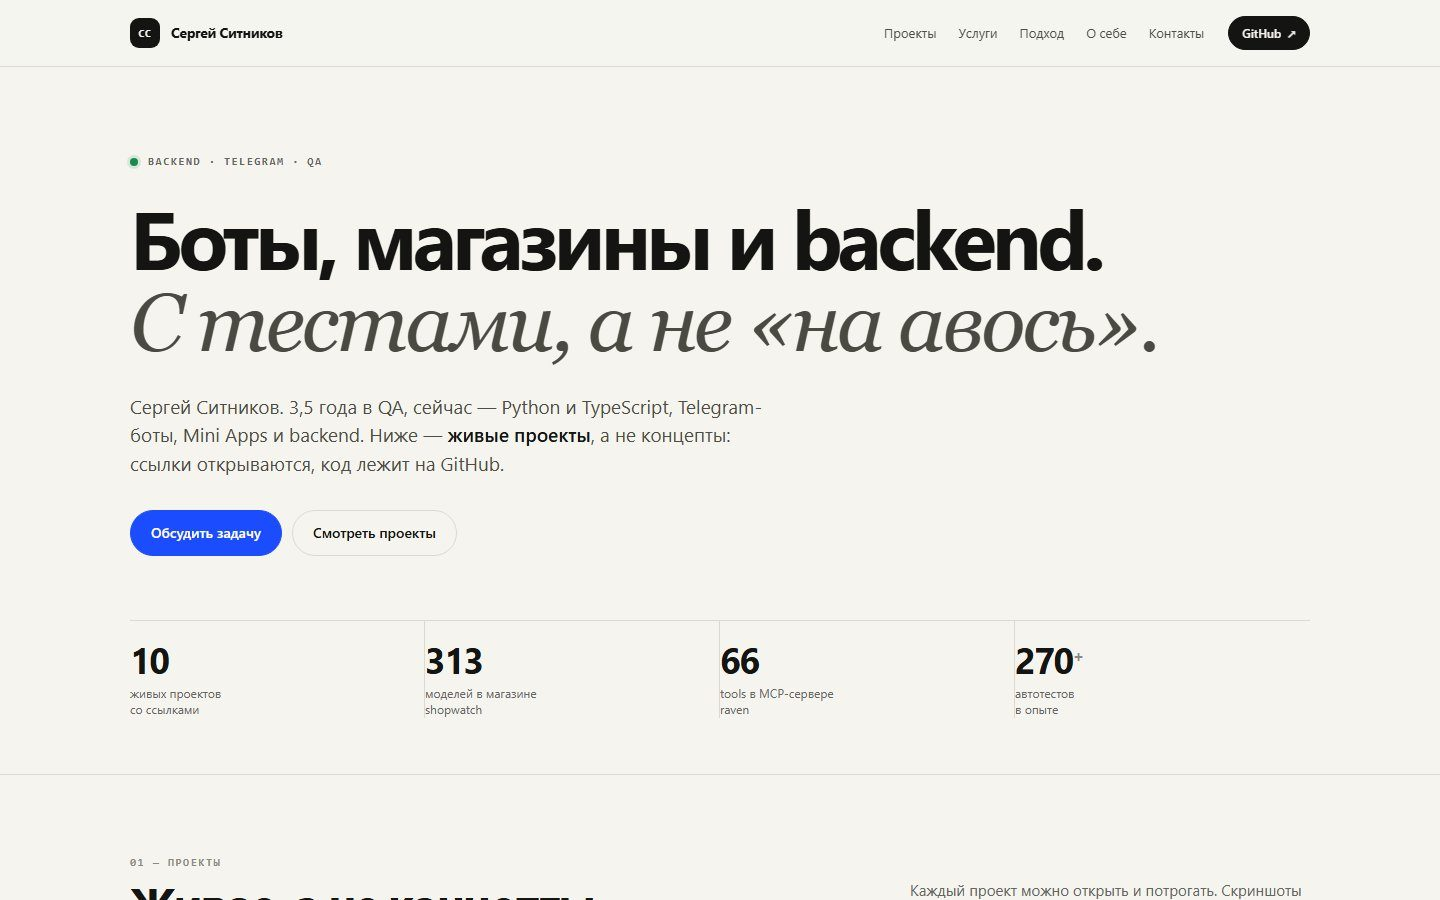
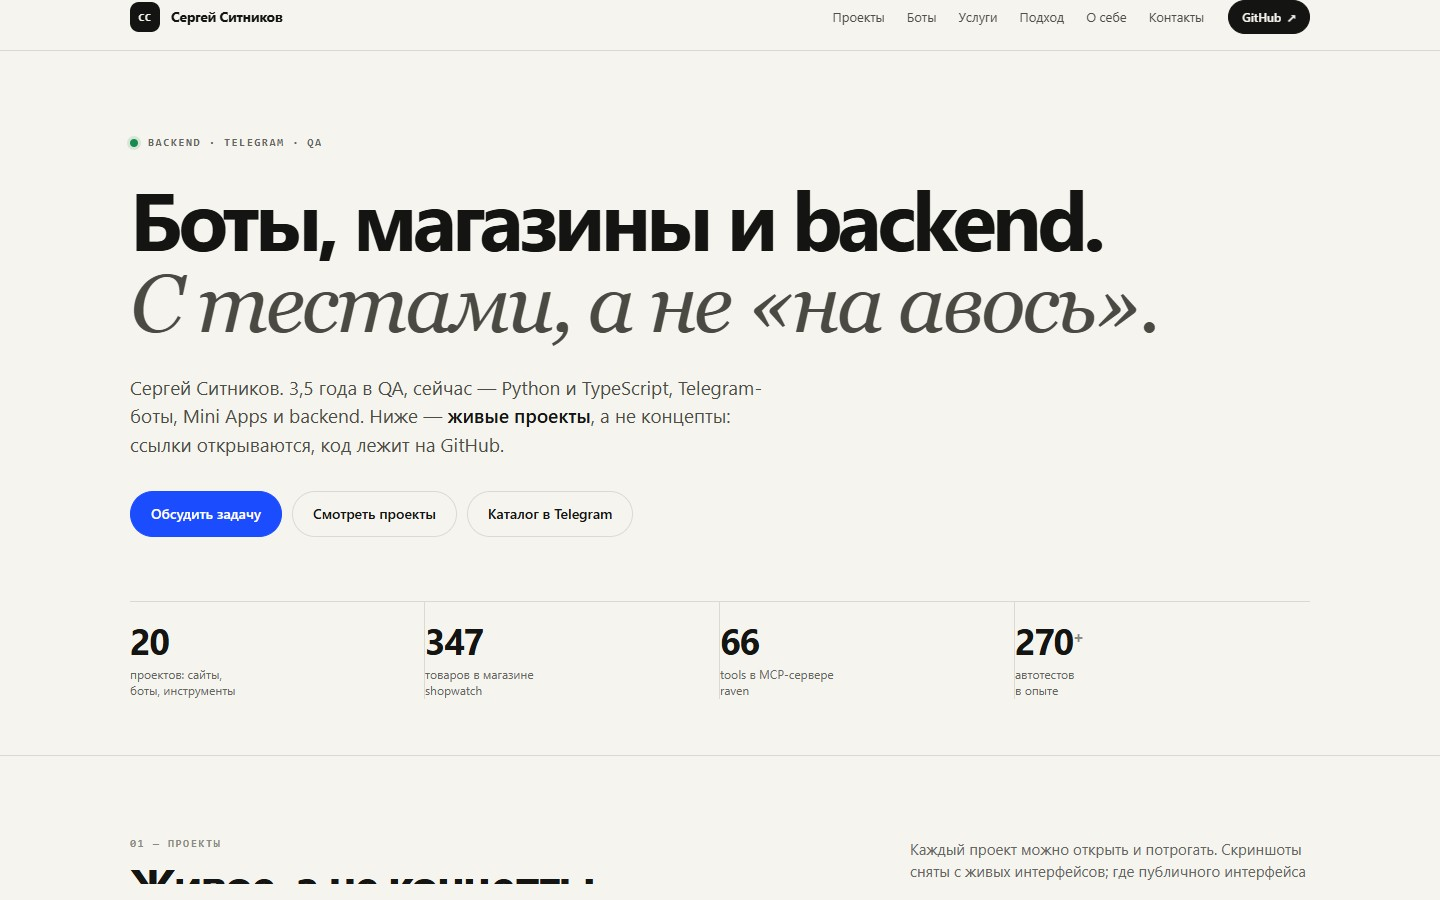
hub: 347 products, 103 skills, fresh storefront shot

diff --git a/index.html b/index.html
@@ -291,7 +291,7 @@ h2{font-size:clamp(30px,4.3vw,46px);line-height:1.04;letter-spacing:-.045em;font
       </div>
       <div class="stats">
         <div class="stat"><b>20</b><span>проектов: сайты,<br>боты, инструменты</span></div>
-        <div class="stat"><b>346</b><span>моделей в магазине<br>shopwatch</span></div>
+        <div class="stat"><b>347</b><span>товаров в магазине<br>shopwatch</span></div>
         <div class="stat"><b>66</b><span>tools в MCP-сервере<br>raven</span></div>
         <div class="stat"><b>270<sup>+</sup></b><span>автотестов<br>в опыте</span></div>
       </div>
@@ -311,7 +311,7 @@ h2{font-size:clamp(30px,4.3vw,46px);line-height:1.04;letter-spacing:-.045em;font
       <div class="projects">
         <article class="card card--featured">
           <a class="shot" href="https://ssrjkk.github.io/shopwatch/" target="_blank" rel="noopener" aria-label="Открыть магазин shopwatch">
-            <img src="assets/shopwatch.png" alt="Витрина магазина Watchop: каталог часов Garmin, карточки товаров и цены" loading="eager">
+            <img src="assets/shopwatch.png" alt="WATCHOP: витрина магазина Garmin и смарт-часов, каталог на 347 моделей" loading="eager">
             <span class="badge live">live</span>
           </a>
           <div class="card-body">
@@ -319,7 +319,7 @@ h2{font-size:clamp(30px,4.3vw,46px);line-height:1.04;letter-spacing:-.045em;font
               <h3>shopwatch</h3>
               <span class="mono">e-commerce</span>
             </div>
-            <p>Магазин часов на 346 моделей: каталог с поиском, фильтры, корзина и оформление. Заказ уходит из Deep Link в Telegram- или MAX-бота — без ручной переноски заявок.</p>
+            <p>Магазин часов на 347 товаров: каталог с поиском, фильтры, корзина и оформление. Заказ уходит из Deep Link в Telegram- или MAX-бота — без ручной переноски заявок.</p>
             <ul class="tags">
               <li>JavaScript</li><li>Node.js</li><li>TG / MAX bots</li><li>GitHub Pages</li>
             </ul>
@@ -334,7 +334,7 @@ h2{font-size:clamp(30px,4.3vw,46px);line-height:1.04;letter-spacing:-.045em;font
           </a>
           <div class="card-body">
             <div class="card-top"><h3>bothive</h3><span class="mono">bots</span></div>
-            <p>Платформа оркестрации ботов: 8 платформ, BullMQ, движок скриптов, webhooks и Prometheus.</p>
+            <p>Платформа оркестрации ботов: 8 платформ, BullMQ, песочница скриптов, circuit breaker, DLQ и Prometheus.</p>
             <ul class="tags"><li>TypeScript</li><li>Fastify</li><li>React</li><li>Redis</li></ul>
             <a class="card-link" href="/bothive/">Лендинг проекта <span aria-hidden="true">→</span></a>
           </div>
@@ -399,7 +399,7 @@ h2{font-size:clamp(30px,4.3vw,46px);line-height:1.04;letter-spacing:-.045em;font
           </a>
           <div class="card-body">
             <div class="card-top"><h3>ezzoffer</h3><span class="mono">automation</span></div>
-            <p>Автоклик по hh.ru: резюме, подбор вакансий из 13 источников и до 250 откликов в сутки, каждый с письмом.</p>
+            <p>Автоклик по hh.ru: резюме, подбор вакансий из 13 источников и до 250 откликов в сутки на старшем тарифе, каждый с письмом.</p>
             <ul class="tags"><li>TypeScript</li><li>Next.js</li><li>hh.ru</li></ul>
             <a class="card-link" href="https://ssrjkk.github.io/ezzoffer/" target="_blank" rel="noopener">Открыть сайт <span aria-hidden="true">↗</span></a>
           </div>
@@ -425,7 +425,7 @@ h2{font-size:clamp(30px,4.3vw,46px);line-height:1.04;letter-spacing:-.045em;font
           </a>
           <div class="card-body">
             <div class="card-top"><h3>shroud</h3><span class="mono">FHE · fhEVM</span></div>
-            <p>Исследовательский прототип: обучение ML на шифрованных данных, escrow-задачи и проверяемые вычисления. Не аудировано.</p>
+            <p>Исследовательский прототип: обучение ML на шифрованных данных, escrow-задачи и STARK-прототип проверки вычислений. Не аудировано.</p>
             <ul class="tags"><li>Solidity</li><li>TypeScript</li><li>Rust</li></ul>
             <a class="card-link" href="https://ssrjkk.github.io/shroud/" target="_blank" rel="noopener">Открыть сайт <span aria-hidden="true">↗</span></a>
           </div>
@@ -438,7 +438,7 @@ h2{font-size:clamp(30px,4.3vw,46px);line-height:1.04;letter-spacing:-.045em;font
           </a>
           <div class="card-body">
             <div class="card-top"><h3>agent-skills</h3><span class="mono">AI tooling</span></div>
-            <p>Библиотека навыков для AI-агентов: 100+ навыков на EN и RU, Python SDK, CLI и живой каталог.</p>
+            <p>Библиотека навыков для AI-агентов: 103 навыка на EN и RU, Python SDK, CLI и живой каталог.</p>
             <ul class="tags"><li>Python</li><li>CLI / SDK</li><li>MCP</li><li>EN + RU</li></ul>
             <a class="card-link" href="https://ssrjkk.github.io/agent-skills/" target="_blank" rel="noopener">Открыть каталог <span aria-hidden="true">↗</span></a>
           </div>
@@ -545,7 +545,6 @@ h2{font-size:clamp(30px,4.3vw,46px);line-height:1.04;letter-spacing:-.045em;font
             <li><a href="https://ssrjkk.github.io/bothive/">bothive</a><span>боты</span></li>
             <li><a href="https://ssrjkk.github.io/raven/">raven</a><span>MCP</span></li>
             <li><a href="https://wake-7k6.pages.dev">wake</a><span>терминал</span></li>
-            <li><a href="https://tippy-egi.pages.dev">tippy</a><span>Base</span></li>
             <li><a href="https://ssrjkk.github.io/drafter/">drafter</a><span>QA · AI</span></li>
             <li><a href="https://ssrjkk.github.io/ezzoffer/">ezzoffer</a><span>hh.ru</span></li>
             <li><a href="https://ssrjkk.github.io/harvest/">harvest</a><span>тестнеты</span></li>

diff --git a/README.md b/README.md
@@ -11,7 +11,7 @@ Telegram bots and channels, the services with prices, and contacts.
 
 - **Projects** — shopwatch, bothive, raven, wake, tippy, drafter, ezzoffer, harvest, shroud, agent-skills
 - **Bots** — [@ssrjkk_bot](https://t.me/ssrjkk_bot), [@wwwatchshop_bot](https://t.me/wwwatchshop_bot), [@waketrade_bot](https://t.me/waketrade_bot), [@tippy_on_base_bot](https://t.me/tippy_on_base_bot), [@harvest_testnet_bot](https://t.me/harvest_testnet_bot)
-- **Sites** — all eleven published sites, including this hub
+- **Sites** — ten live sites, including this hub, plus tippy's bot (its Pages site is down)
 - **Services** — Telegram bots, stores with TG/MAX bots, Mini Apps, QA and automation
 - **Contacts** — Telegram, GitHub, channels, email
 
